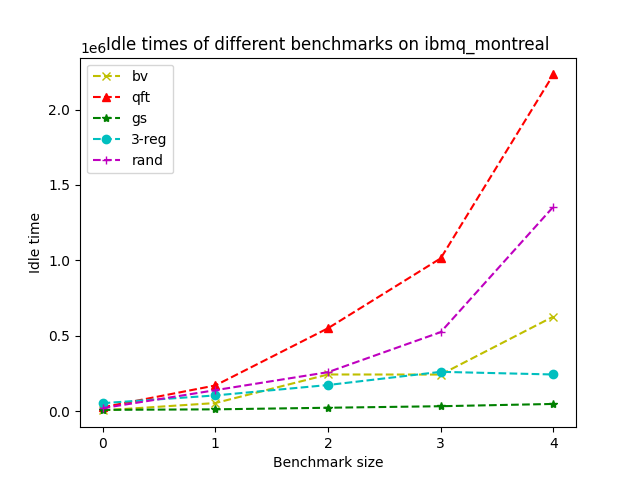
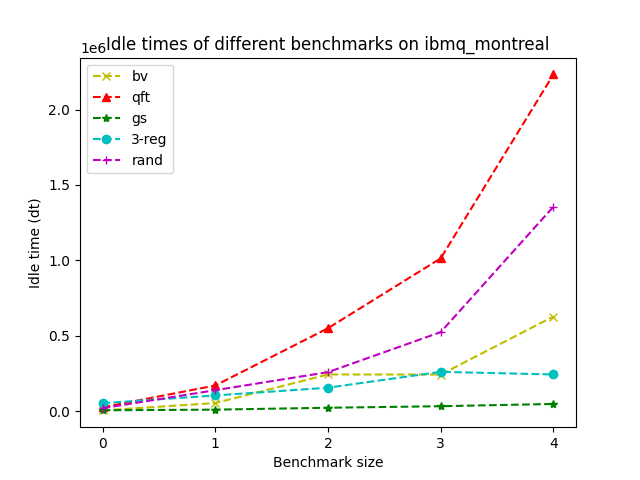
update idle time

diff --git a/src/tools/.ipynb_checkpoints/DD_insertion-checkpoint.py b/src/tools/.ipynb_checkpoints/DD_insertion-checkpoint.py
@@ -1,0 +1,259 @@
+import numpy as np
+from qiskit.circuit.equivalence_library import SessionEquivalenceLibrary
+from qiskit.converters import circuit_to_dag, dag_to_circuit
+from qiskit.providers.models import BackendConfiguration
+from qiskit.transpiler.passes import BasisTranslator
+from qiskit import QuantumCircuit, IBMQ, transpile
+from qiskit.circuit import Delay
+from qiskit.circuit.library import XGate, YGate, RXGate, RYGate, RZGate
+from qiskit.transpiler.passes import ALAPSchedule
+from src.DD.dynamical_decoupling import DynamicalDecoupling
+from qiskit.transpiler import PassManager, InstructionDurations
+from qiskit.circuit.library import QFT, GraphState
+from networkx.generators.random_graphs import erdos_renyi_graph
+from src.QAOA.QAOA_approximation import generate_three_regular_graph, generate_graph_matrix, create_qaoa_circ, compute_expectation, get_ansatz_parm
+from scipy.optimize import minimize
+from qiskit.dagcircuit import DAGCircuit
+from qiskit.converters import circuit_to_dag, dag_to_circuit
+
+def uhrig_pulse_location(k, n):
+    return np.sin(np.pi * (k + 1) / (2 * n + 2)) ** 2
+
+
+def construct_udd_sequence(rep: int,
+                           rep_gate,):
+    udd_sequence = [rep_gate] * rep
+    spacing = []
+    for k in range(rep):
+        spacing.append(uhrig_pulse_location(k, rep) - sum(spacing))
+    spacing.append(1 - sum(spacing))
+    return udd_sequence, spacing
+
+
+def translate_circuit_to_basis(
+    input_circuit: QuantumCircuit, configuration: BackendConfiguration
+) -> QuantumCircuit:
+    """Unroll the given circuit with the basis in the given configuration."""
+    basis = configuration.basis_gates
+    translator = BasisTranslator(SessionEquivalenceLibrary, basis)
+    unrolled_dag = translator.run(circuit_to_dag(input_circuit))
+    return dag_to_circuit(unrolled_dag)
+
+def construct_bv_circuit(num_qubit):
+    # construct the bv circuit
+    qc = QuantumCircuit(num_qubit)
+    qc.x(num_qubit-1)
+    for i in range(num_qubit-1):
+        qc.h(i)
+    qc.h(num_qubit-1)
+    for i in range(num_qubit-1):
+        qc.cx(i, num_qubit-1)
+    for i in range(num_qubit-1):
+        qc.h(i)
+    return qc
+
+def construct_hs_circuit(num_qubit):
+    # construct the hs circuit
+    qc = QuantumCircuit(num_qubit)
+    for i in range(num_qubit):
+        qc.h(i)
+    for i in range(num_qubit-1):
+        qc.x(i)
+    for i in range(0, num_qubit-1, 2):
+        qc.cz(i, i+1)
+    for i in range(num_qubit-1):
+        qc.x(i)
+    for i in range(num_qubit):
+        qc.h(i)
+    for i in range(0, num_qubit-1, 2):
+        qc.cz(i, i+1)
+    for i in range(num_qubit):
+        qc.h(i)
+    return qc
+
+def construct_graph_matrix(num_qubit,
+                 coupling_map):
+    # construct the graph matrix according to the hardware coupling map
+    graph_matrix = np.zeros((num_qubit, num_qubit))
+    for i in range(num_qubit):
+        for (m, n) in coupling_map:
+            if i == m and n < num_qubit:
+                graph_matrix[m][n] = 1
+            elif i == n and m < num_qubit:
+                graph_matrix[n][m] = 1
+    return graph_matrix
+
+def convert_count_to_prob(result_counts, ideal_counts, shots):
+    p_ideal = []
+    p_result = []
+    for key, values in result_counts.items():
+        p_result.append(values / shots)
+        p_ideal.append(ideal_counts.get(key, 0) / shots)
+    return p_ideal, p_result
+
+def theta_phi(theta, phi):
+    return [RZGate(phi), RXGate(-theta), RZGate(-phi)]
+
+def one_sequence(phi):
+    sequence = []
+    sequence.extend(theta_phi(np.pi, np.pi/6 + phi))
+    sequence.extend(theta_phi(np.pi, phi))
+    sequence.extend(theta_phi(np.pi, np.pi/2 + phi))
+    sequence.extend(theta_phi(np.pi, phi))
+    sequence.extend(theta_phi(np.pi, np.pi/6 + phi))
+    return sequence
+
+def kdd_sequences():
+    seqences = []
+    seqences.extend(one_sequence(0))
+    seqences.extend(one_sequence(np.pi / 2))
+    seqences.extend(one_sequence(0))
+    seqences.extend(one_sequence(np.pi / 2))
+    return seqences
+
+def kdd_spacing(num_pulse=20):
+    mid = 1 / num_pulse
+    end = mid / 2
+    spacing = []
+    spacing.append(end)
+    interval = [0] * 2
+    for i in range(num_pulse):
+        spacing.extend(interval)
+        if i < num_pulse - 1:
+            spacing.append(mid)
+    spacing.append(end)
+    return spacing
+
+
+
+def rzx_gate_recover(circuit):
+
+    dagcircuit = DAGCircuit()
+    dagcircuit.name = circuit.name
+    dagcircuit.global_phase = circuit.global_phase
+    dagcircuit.calibrations = circuit.calibrations
+    dagcircuit.metadata = circuit.metadata
+
+    dagcircuit.add_qubits(circuit.qubits)
+    dagcircuit.add_clbits(circuit.clbits)
+
+    for register in circuit.qregs:
+        dagcircuit.add_qreg(register)
+
+    for register in circuit.cregs:
+        dagcircuit.add_creg(register)
+
+    for instruction, qargs, cargs in circuit.data:
+        if len(instruction.name) >= 3 and instruction.name[:3] == 'rzx':
+            instruct_copy = instruction.copy()
+            instruct_copy.name = 'rzx'
+            dagcircuit.apply_operation_back(instruct_copy, qargs, cargs)
+        else:
+            dagcircuit.apply_operation_back(instruction.copy(), qargs, cargs)
+
+    dagcircuit.duration = circuit.duration
+    dagcircuit.unit = circuit.unit
+    circuit = dag_to_circuit(dagcircuit)
+    return circuit
+
+
+def pm_DD_sequences(durations):
+    pms = []
+    DD_sequences = []
+    hahn_X = [XGate()]
+    DD_sequences.append(hahn_X)
+
+    hahn_Y = [YGate()]
+    DD_sequences.append(hahn_Y)
+
+    CP = [XGate(), XGate()]
+    DD_sequences.append(CP)
+
+    CPMG = [YGate(), YGate()]
+    DD_sequences.append(CPMG)
+
+    xy4_sequence = [XGate(), YGate(), XGate(), YGate()]
+    DD_sequences.append(xy4_sequence)
+
+    xy8_sequence = [XGate(), YGate(), XGate(), YGate(), YGate(), XGate(), YGate(), XGate()]
+    DD_sequences.append(xy8_sequence)
+
+    xy16_sequence = [XGate(), YGate(), XGate(), YGate(), YGate(), XGate(), YGate(), XGate(),
+                     RXGate(-np.pi), RYGate(-np.pi), RXGate(-np.pi), RYGate(-np.pi), RYGate(-np.pi), RXGate(-np.pi),
+                     RYGate(-np.pi), RXGate(-np.pi)]
+    DD_sequences.append(xy16_sequence)
+
+    for dd_seq in DD_sequences:
+        pm = PassManager([ALAPSchedule(durations),
+                          DynamicalDecoupling(durations, dd_seq)])
+        pms.append(pm)
+
+    udd_sequence1, udd_spacing1 = construct_udd_sequence(8, XGate())
+    udd_sequence2, udd_spacing2 = construct_udd_sequence(8, YGate())
+    kdd_spaces = kdd_spacing()
+    kdd_sequence = kdd_sequences()
+
+    sequences = [udd_sequence1, udd_sequence2, kdd_sequence]
+    spaces = [udd_spacing1, udd_spacing2, kdd_spaces]
+
+    for i in range(len(sequences)):
+        pm = PassManager([ALAPSchedule(durations),
+                          DynamicalDecoupling(durations, sequences[i], spacing=spaces[i])])
+        pms.append(pm)
+
+    return pms
+
+def pm_DD_sequences_partial(durations, qubits):
+    pms = []
+    DD_sequences = []
+    hahn_X = [XGate()]
+    DD_sequences.append(hahn_X)
+
+    hahn_Y = [YGate()]
+    DD_sequences.append(hahn_Y)
+
+    CP = [XGate(), XGate()]
+    DD_sequences.append(CP)
+
+    CPMG = [YGate(), YGate()]
+    DD_sequences.append(CPMG)
+
+    xy4_sequence = [XGate(), YGate(), XGate(), YGate()]
+    DD_sequences.append(xy4_sequence)
+
+    xy8_sequence = [XGate(), YGate(), XGate(), YGate(), YGate(), XGate(), YGate(), XGate()]
+    DD_sequences.append(xy8_sequence)
+
+    xy16_sequence = [XGate(), YGate(), XGate(), YGate(), YGate(), XGate(), YGate(), XGate(),
+                     RXGate(-np.pi), RYGate(-np.pi), RXGate(-np.pi), RYGate(-np.pi), RYGate(-np.pi), RXGate(-np.pi),
+                     RYGate(-np.pi), RXGate(-np.pi)]
+    DD_sequences.append(xy16_sequence)
+
+    for dd_seq in DD_sequences:
+        pm = PassManager([ALAPSchedule(durations),
+                          DynamicalDecoupling(durations, dd_seq, qubits=qubits)])
+        pms.append(pm)
+
+    udd_sequence1, udd_spacing1 = construct_udd_sequence(8, XGate())
+    udd_sequence2, udd_spacing2 = construct_udd_sequence(8, YGate())
+    kdd_spaces = kdd_spacing()
+    kdd_sequence = kdd_sequences()
+
+    sequences = [udd_sequence1, udd_sequence2, kdd_sequence]
+    spaces = [udd_spacing1, udd_spacing2, kdd_spaces]
+
+    for i in range(len(sequences)):
+        pm = PassManager([ALAPSchedule(durations),
+                          DynamicalDecoupling(durations, sequences[i], spacing=spaces[i], qubits=qubits)])
+        pms.append(pm)
+
+    return pms
+
+
+
+
+
+
+
+
+

diff --git a/src/tools/circuit_idle_time.py b/src/tools/circuit_idle_time.py
@@ -76,8 +76,6 @@ for i in range(4,13,2):
 
 
 print('-------')
-# fig = figure(num=None, figsize=(8, 6), dpi=600, facecolor='w', edgecolor='k')
-# ax = fig.add_axes([0,0,1,1])
 x_ticks = list(range(4,13,2))
 X = np.arange(len(x_ticks))
 plt.plot(X, bv_idles, linestyle='--', marker='x', color='y', label='bv')
@@ -89,7 +87,7 @@ plt.plot(X, qaoa_random_idles, linestyle='--', marker='+', color='m', label='ran
 plt.legend(loc='best')
 plt.title('Idle times of different benchmarks on ibmq_montreal')
 plt.xlabel('Benchmark size')
-plt.ylabel('Idle time')
+plt.ylabel('Idle time (dt)')
 plt.xticks(X)
 
 # ax.set_title('Idle times of different benchmarks on ibmq_montreal')
